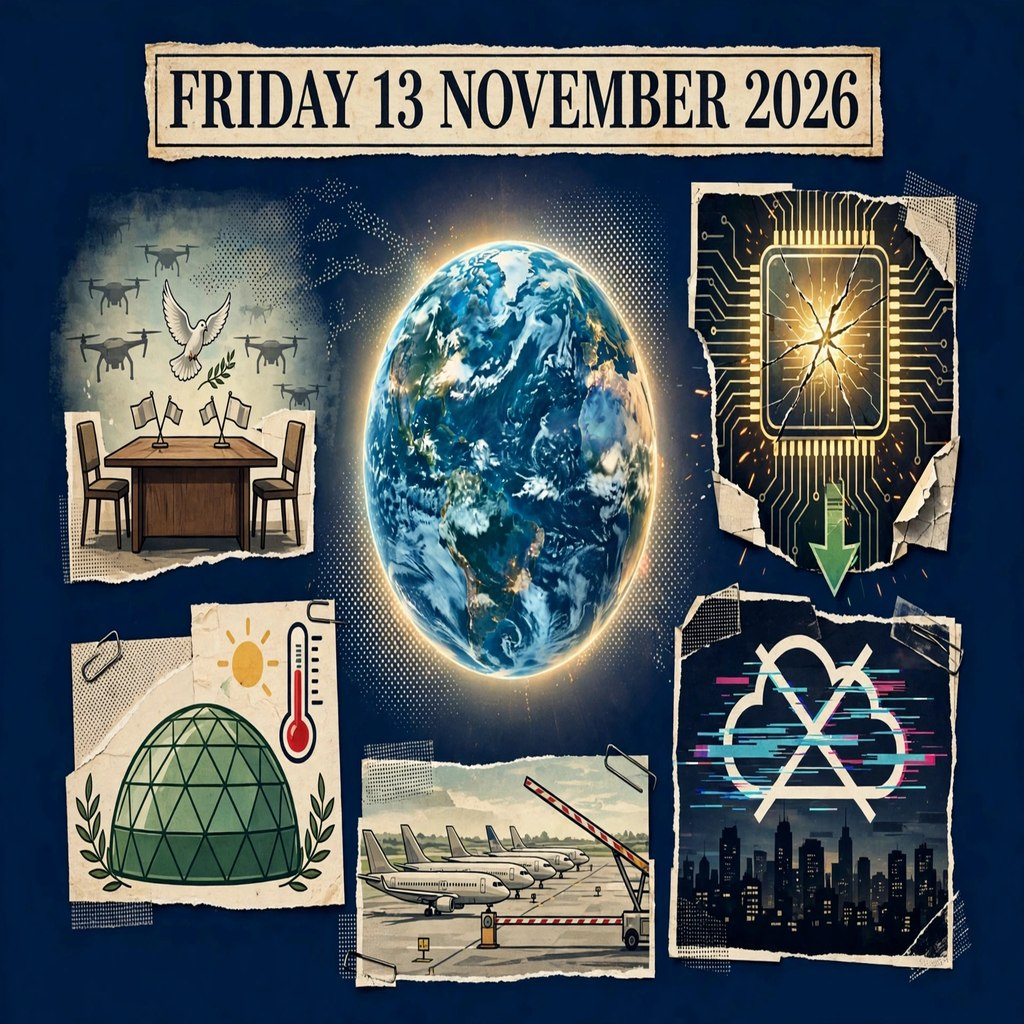
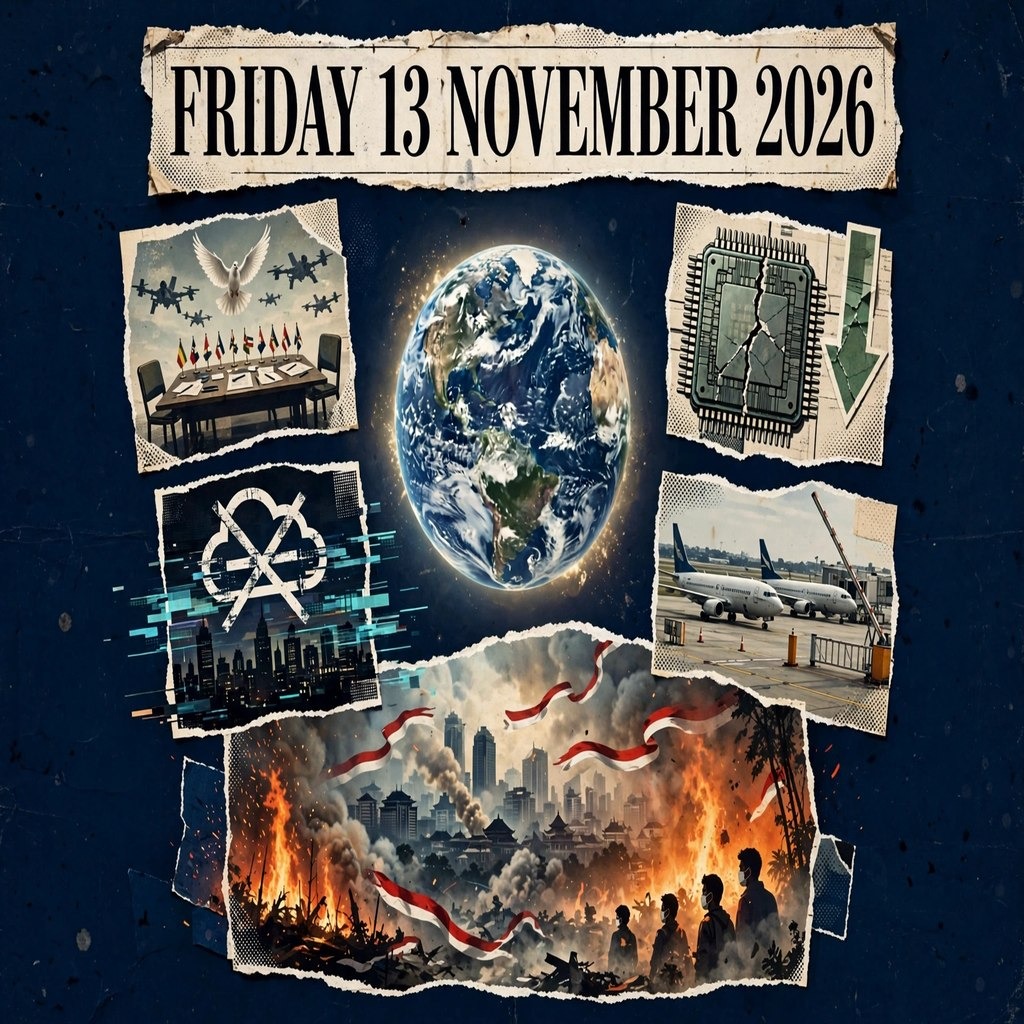
Indonesia edition: wildfire crisis joins the collage

diff --git a/README.md b/README.md
@@ -9,8 +9,10 @@ talks shadowed by a massive drone attack, a tech shock as Nvidia's CEO
 resigned, a second day of global Microsoft 365 outages, US–Iran drone
 tensions over Bahrain, a four-hour FAA ground stop in the US, the COP31
 climate summit in Antalya, and Taiwan's warning over China's Pacific naval
-drills — arranged as an editorial newspaper collage around a glowing Earth
-under the banner "FRIDAY 13 NOVEMBER 2026".
+drills — and, featured largest of all, Indonesia's raging wildfire crisis,
+its burning forests and thick haze hanging over Jakarta as the government
+refused to declare a national disaster — arranged as an editorial newspaper
+collage around a glowing Earth under the banner "FRIDAY 13 NOVEMBER 2026".
 
 ## Run
 
